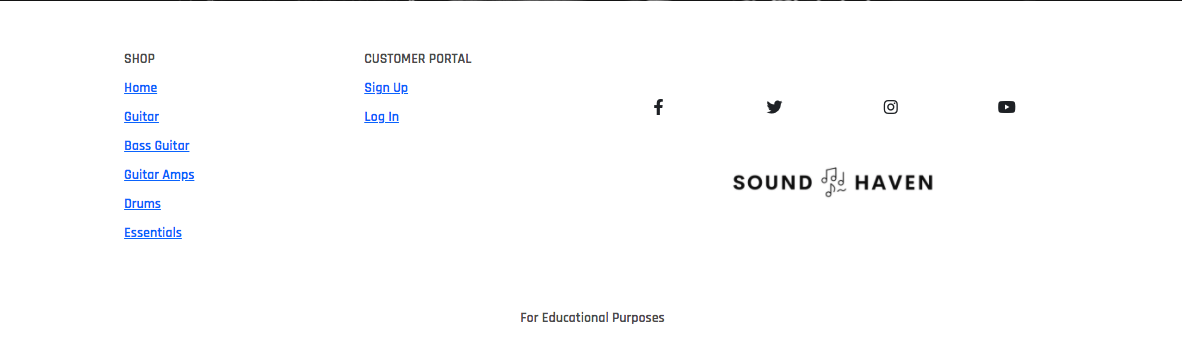
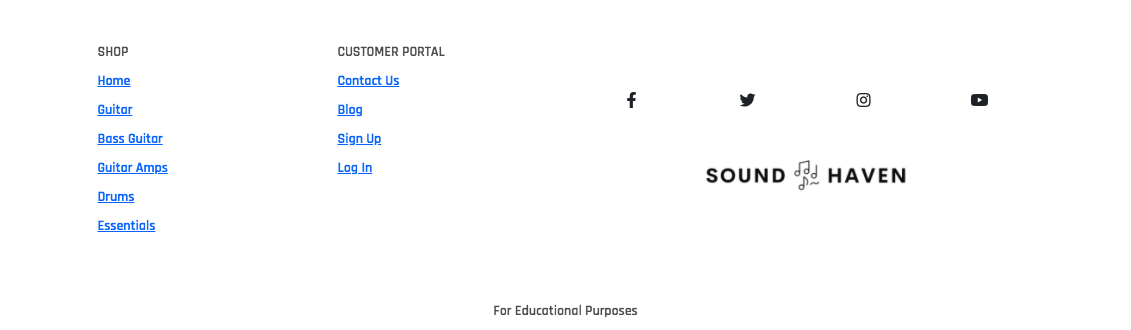
Updated README with new images and content

diff --git a/README.md b/README.md
@@ -93,7 +93,8 @@ As a customer I want to:
    10. Ability to view order confirmations after purchase.  
    11. Receive email confirmation after purchase.  
    12. Navigate easily through the site with clear navigational tools, such as navbars and footers.  
-   13. Register for an account.     
+   13. Register for an account.    
+   14. Contact the business 
 
 As a registered user, I want to:
    1. Have the same access and more than an unregistered user. 
@@ -154,6 +155,8 @@ Wireframes were created using Balsamiq Wire Frames.
 - [Wireframe for Checkout page](wireframe/checkoutwireframe.png)  
 - [Wireframe for Profile page](wireframe/profilewireframe.png)
 - [Wireframe for Contact page](wireframe/contactwireframe.png)
+- [Wireframe for Blogs page](wireframe/blogswireframe.png)
+- [Wireframe for Blog page](wireframe/blogwireframe.png)
 
 <br/>  
 
@@ -226,7 +229,25 @@ The database was used via SQLite during development on GitHub, but using deploym
    - Default_town_or_city field: the town or city name of the user.  
    - Default_postcode field: the postcode of the user.  
    - Default_country field: the country of the user.    
+
+- **ContactForm model**  
+  - Stores the contact form filled by the user.  
+  - Name field: the name of the user.  
+  - Email field: the email of the user.   
+  - Order_number: the order number if the user has it. Filled manually by the user.  
+  - Message: the message in the form.  
+  - Date: the date it was sent.  
  
+- **Blog model**   
+   - Stores articles/ blogs for the website.  
+   - Image field: the image for the article.   
+   - Author field: the author of the article, a foreign key from the User model.  
+   - Title field: the title for the article.  
+   - Paragraph1: the first paragraph of the article.  
+   - Paragraph2: the second paragraph of the article.  
+   - Paragraph3: the third paragraph of the article.  
+   - Created_on: the data it was created.  
+
 
 <br/>  
 
@@ -284,42 +305,55 @@ The page also includes navigation buttons, leading the user to adding the items 
 
 If a superuser is logged in, they'll have the option to edit or delete the product. 
 
-
-
 #### **4. Cart Page**  
 [See the image of Cart page here](mp4testing/images/cartoverview.png)  
 The cart page includes a nested box which allows the user to update/remove the products they have currently in their cart. 
 
 It allows them to navigate through to their checkout page.
 
-#### **6. Checkout Page**  
+#### **5. Checkout Page**  
 [See the image of Checkout page here](mp4testing/images/checkout.png)  
 The Checkout page, includes an a brief overview of the products selected, as well as the user information needed to complete their order. 
 
-#### **7. Checkout Success Page**   
+#### **6. Checkout Success Page**   
 [See the image of Checkout Sucess page here](mp4testing/images/ordersuccessful.png)  
 The Successful order page, means that the user is directed there once their order is complete. Giving them a confirmation of the order details being sent to their inputted email address, as well as an overview of the products once again. 
 
-#### **8. Profile Page**  
+#### **7. Profile Page**  
 [See the image of Profile page - My Information here](mp4testing/images/profile.png)  
 The User's profile page displays the user's delivery information and their order history, with the option to navigate to an individual order or to update the delivery information. 
 
-#### **16. Register and Log In Page**  
+#### **8. Blogs Page**  
+[See the image of Blogs page here](mp4testing/images/blogspage.png)  
+- The Blogs page features all relevant blogs about shoes and accessories. This provides better customer experiences besides basic purchasing functionality and hopefully will increase users' engagement with the store.   
+- All blogs are featured in a card-like display, with an image, a title, a small part of the blog, and a Read the blog link that will bring the user to the Individual Blog page.   
+
+#### **9. Individual Blog Page**  
+[See the image of Blog page here](mp4testing/images/blogpage.png)  
+- The Individual Blog page features the blog itself, the image, the title, and the date created.   
+- Read more blogs button is placed on the bottom-center of the page to bring users back to the Blogs page. 
+
+#### **10. Contact Page**  
+[See the image of Contact page here](mp4testing/images/contactpage.png)  
+- The Contact Page features information on how to contact the store. It provides a phone number, email address, and a contact form.  
+- Users can fill out the contact form and submit it. The server side will store it in the database so the store admin can see and process all of the messages. 
+
+#### **11. Register and Log In Page**  
 [See the image of Signup page here](mp4testing/images/signup.png)  
 [See the image of Sign In page here](mp4testing/images/signin.png)  
 To register the user must give their email of choice as well as confirm the email address, a username and select a password. 
 
 When signing in the user must provide their corresponding username and password, with the option to remember the user and if password is forgotten, they can navigate to a page which allows for it to be recovered. 
 
-#### **17. Product Management / Add Product page (Admin / Superuser only)**  
+#### **12. Product Management / Add Product page (Admin / Superuser only)**  
 [See the image of Product Management page here](mp4testing/images/emptyproductmanagement.png)  
 Product manage is only available to superusers, it includes all the information required to add a product to the database, once all required fields are completed, the user can add the product. 
 
-#### **18. Edit Product page (Admin / Superuser only)**  
+#### **13. Edit Product page (Admin / Superuser only)**  
 [See the image of Edit Product page here](mp4testing/images/productedit.png)  
 Once here, the user can edit the products that they choose, once completed, they can submit and the products will have the amended fields added to the database. 
 
-#### **19. Delete Product Functionality (Admin / Superuser only)**  
+#### **14. Delete Product Functionality (Admin / Superuser only)**  
 A superuser is the only user capable of using this functionality, included on the products page, as well as the individual products page. 
 
 In doing this, the user will remove the product entirely from the page. 
@@ -557,7 +591,6 @@ This project is deployed on Heroku for production, with all static and media fil
    python3 manage.py loaddata categories
    python3 manage.py loaddata subcategories
    python3 manage.py loaddata products
-   python3 manage.py loaddata topics
    python3 manage.py loaddata blogs
 ```
 8. Set up a new superuser, fill out the username, email address, and password.
@@ -592,7 +625,7 @@ This project is deployed on Heroku for production, with all static and media fil
 ```
 12. Login to Heroku through CLI, using ```heroku login```. Once logged in, disable the collect static temporarily, so that Heroku won't try to collect static files when it deploys.
 ```
-   heroku config:set DISABLE_COLLECTSTATIC=1 --app mp4-sound-haven
+   heroku config:set DISABLE_COLLECTSTATIC=1 --app sound-haven
 ```
    And add the hostname of the Heroku app to allowed hosts in the project's settings.py, and also add localhost so that Gitpod will still work as well:  
 ```
@@ -600,7 +633,7 @@ This project is deployed on Heroku for production, with all static and media fil
 ```
 13. Add, commit, and push to gitpod and then to Heroku. After pushing to gitpod as usual, initialize git remote first:
 ```
-   heroku git:remote -a mp4-sound-haven
+   heroku git:remote -a sound-haven
 ```
    Then push to Heroku:
 ```

diff --git a/TESTING.md b/TESTING.md
@@ -78,6 +78,9 @@ All links work correctly, navigating the user to the appropriate direction, with
 - [Lighthouse for Profile page](mp4/images/lighthouse/profilelighthouse.png) 
 - [Lighthouse for Add Product page](mp4/images/lighthouse/addproductlighthouse.png) 
 - [Lighthouse for Edit Product page](mp4/images/lighthouse/editproductlighthouse.png) 
+- [Lighthouse for Contact page](mp4/images/lighthouse/contactlighthouse.png) 
+- [Lighthouse for Blogs page](mp4/images/lighthouse/blogslighthouse.png) 
+- [Lighthouse for Blog page](mp4/images/lighthouse/bloglighthouse.png) 
 
 
 # User Stories
@@ -121,11 +124,9 @@ All links work correctly, navigating the user to the appropriate direction, with
 
 ![Order Confirmation](mp4testing/images/ordersuccessful.png "Order Confirmation")
 
-
 10. **Receive email confirmation after purchase.**
 
 ![Email Confirmation](mp4testing/images/toastemailconfirmation.png "Email Confirmation")
-
 
 11. **Navigate easily through the site with clear navigational tools, such as navbars and footers.**
 
@@ -136,6 +137,8 @@ All links work correctly, navigating the user to the appropriate direction, with
 
 ![Register](mp4testing/images/signup.png "Register")
 
+13. **Contact the Business**
+![Contact](mp4testing/images/contactform.png "Contact")
 
 ### Registered Users
 
@@ -157,7 +160,6 @@ All links work correctly, navigating the user to the appropriate direction, with
 1. **Add product(s)**
 
 ![Add Product](mp4testing/images/emptyproductmanagement.png "Add Product")
-
 
 2. **Edit and update product(s)**
 
